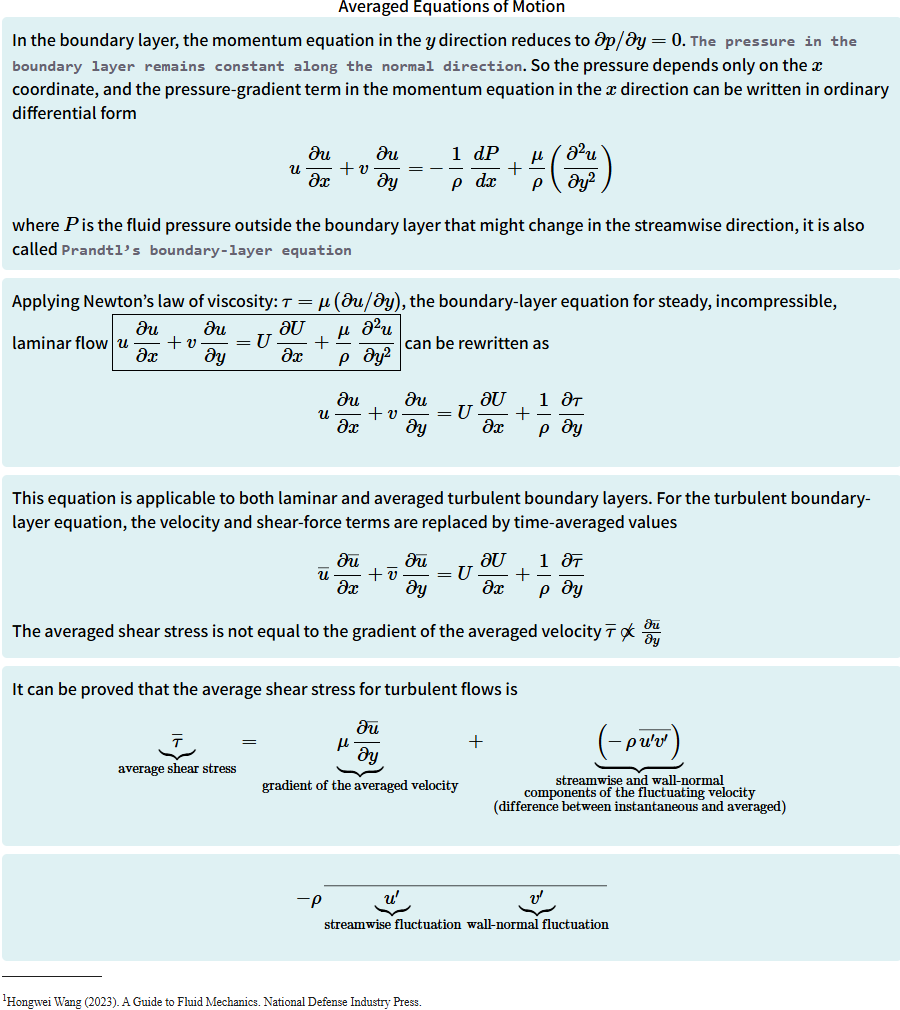
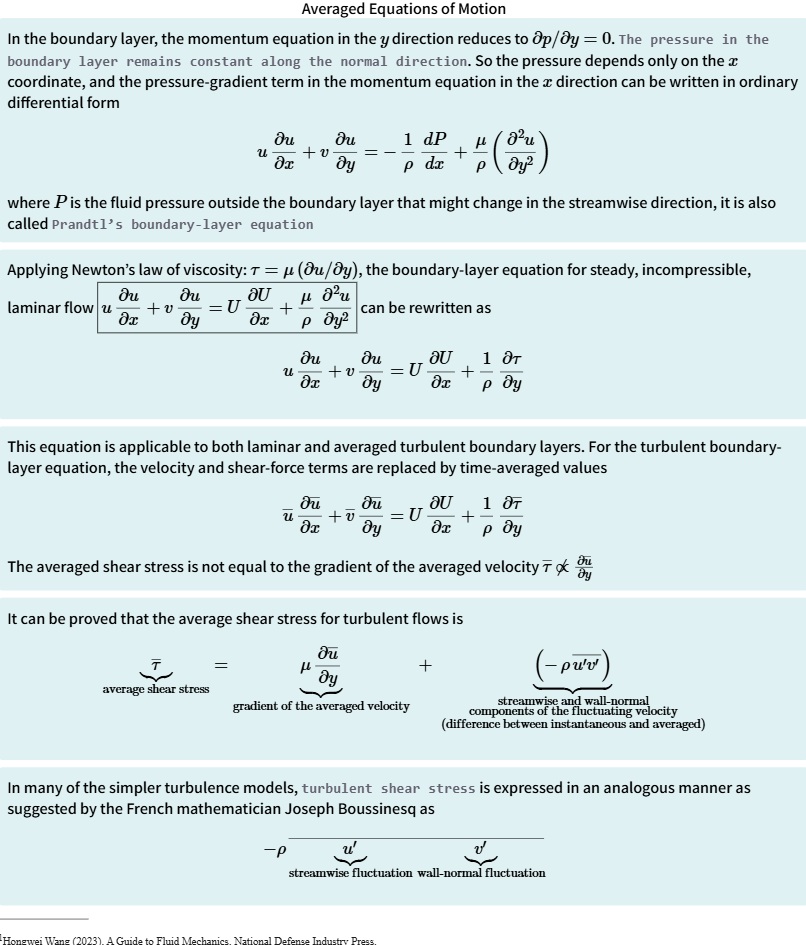
Update

Changed region(s): [[0.0, 0.1228, 1.0, 1.0], [0.0, 0.0, 0.9926, 0.1228]]

diff --git a/Lecture4BSlide28.html b/Lecture4BSlide28.html
@@ -202,6 +202,8 @@ It can be proved that the average shear stress for turbulent flows is
 </div>
 
 <div class="description">
+In many of the simpler turbulence models, <span class="sql">turbulent shear stress</span> is expressed in an analogous manner as suggested by the 
+French mathematician Joseph Boussinesq as
 \[
 -\rho\,\overline{\underbrace{u'}_{\text{streamwise fluctuation}}\;
 \underbrace{v'}_{\text{wall-normal fluctuation}} }
